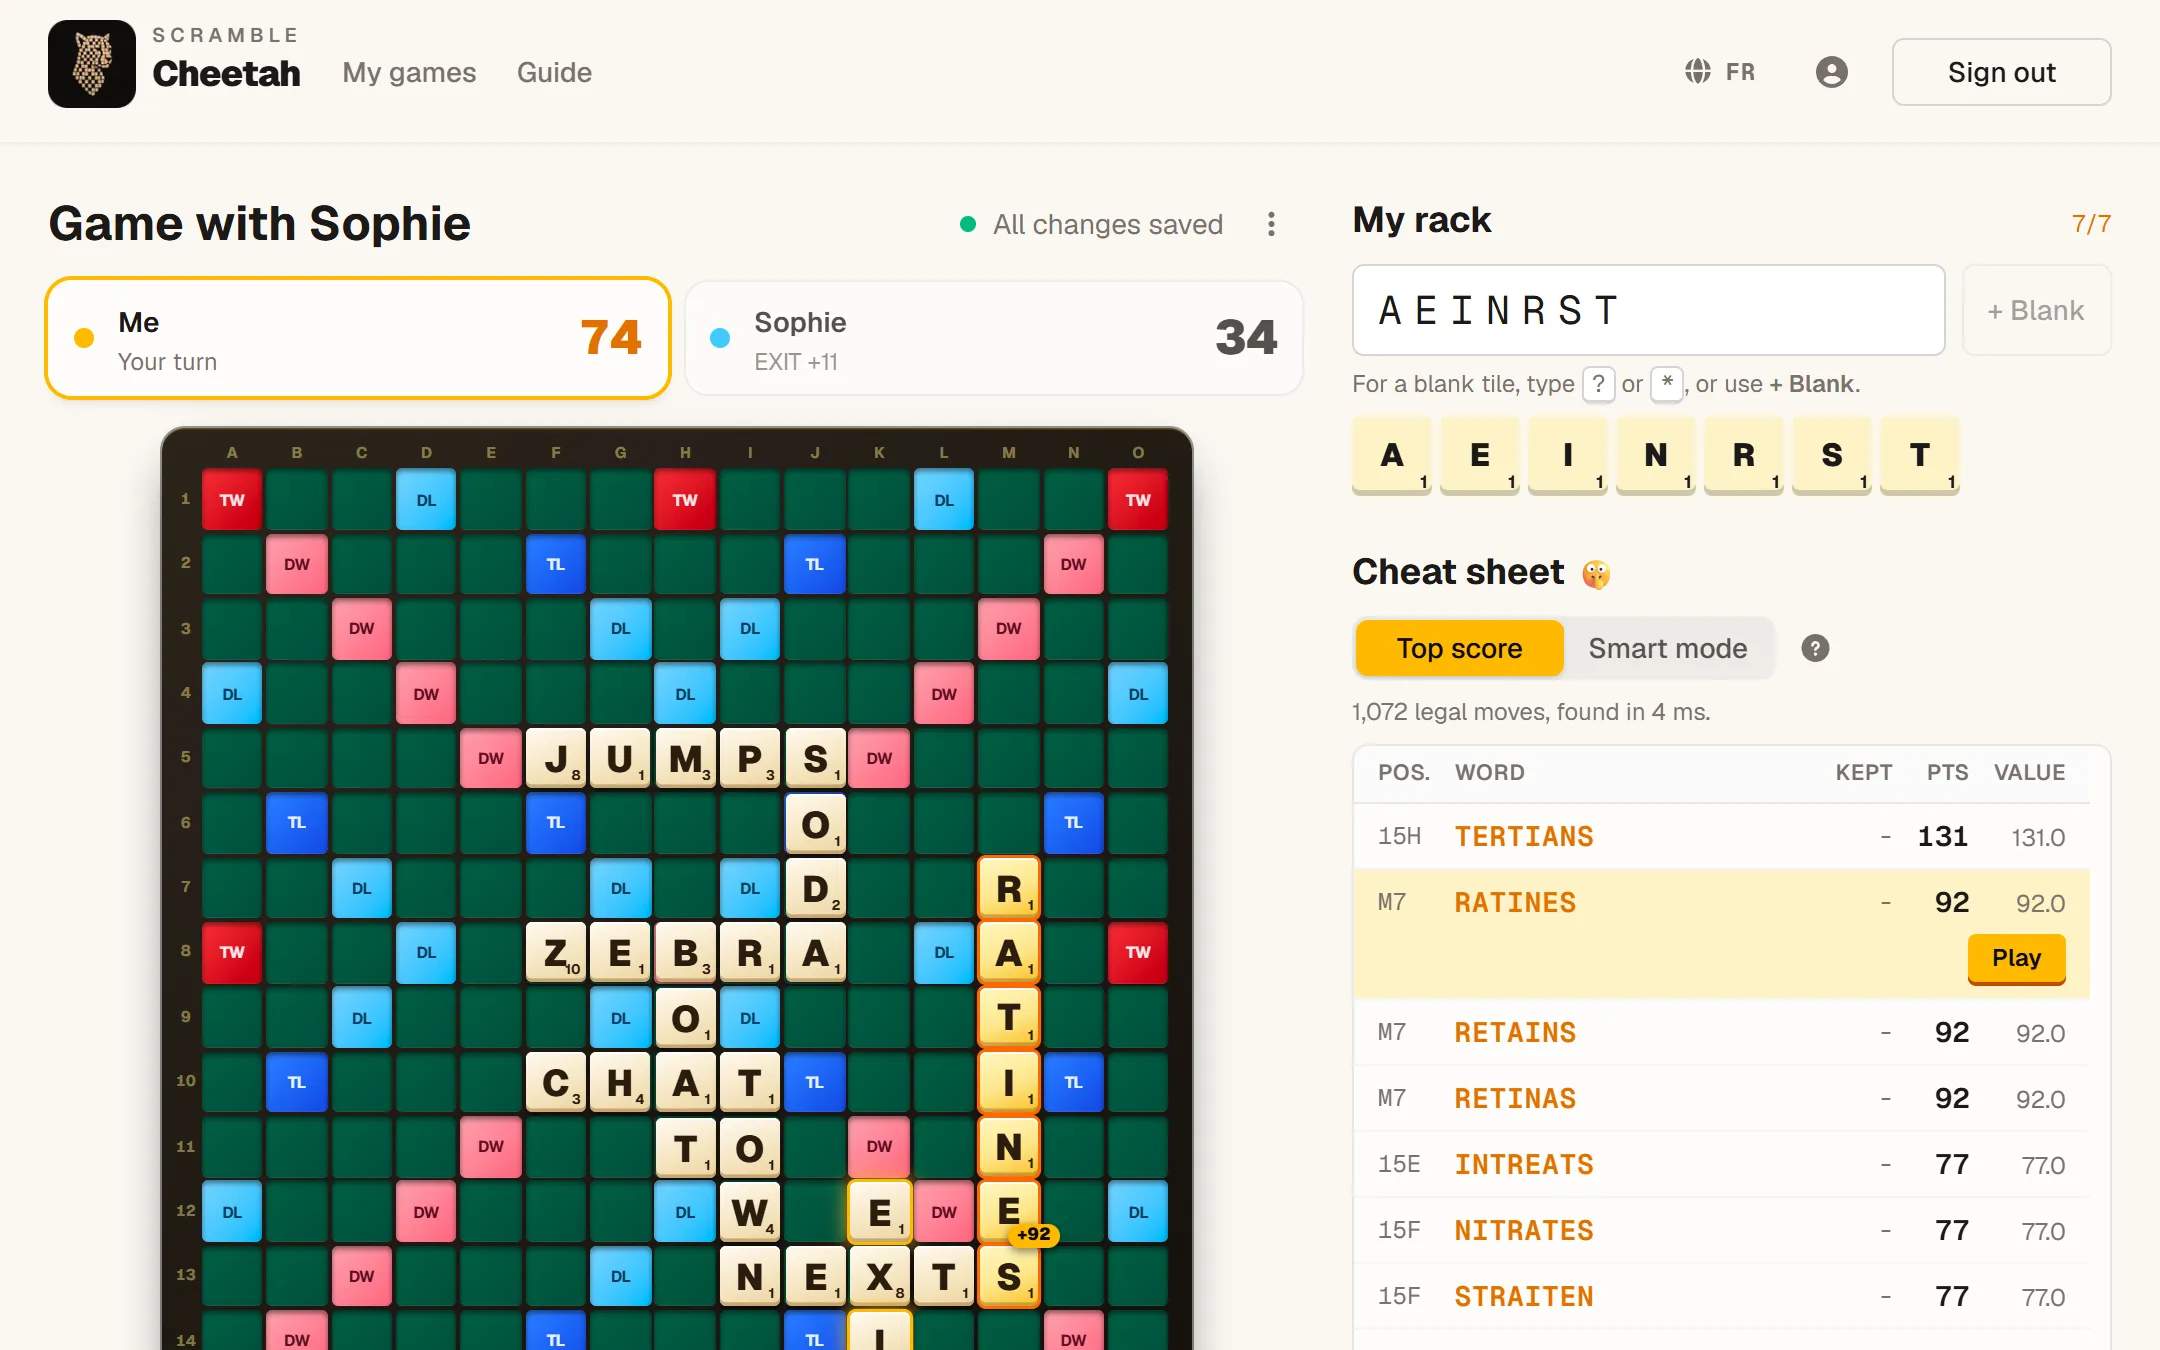
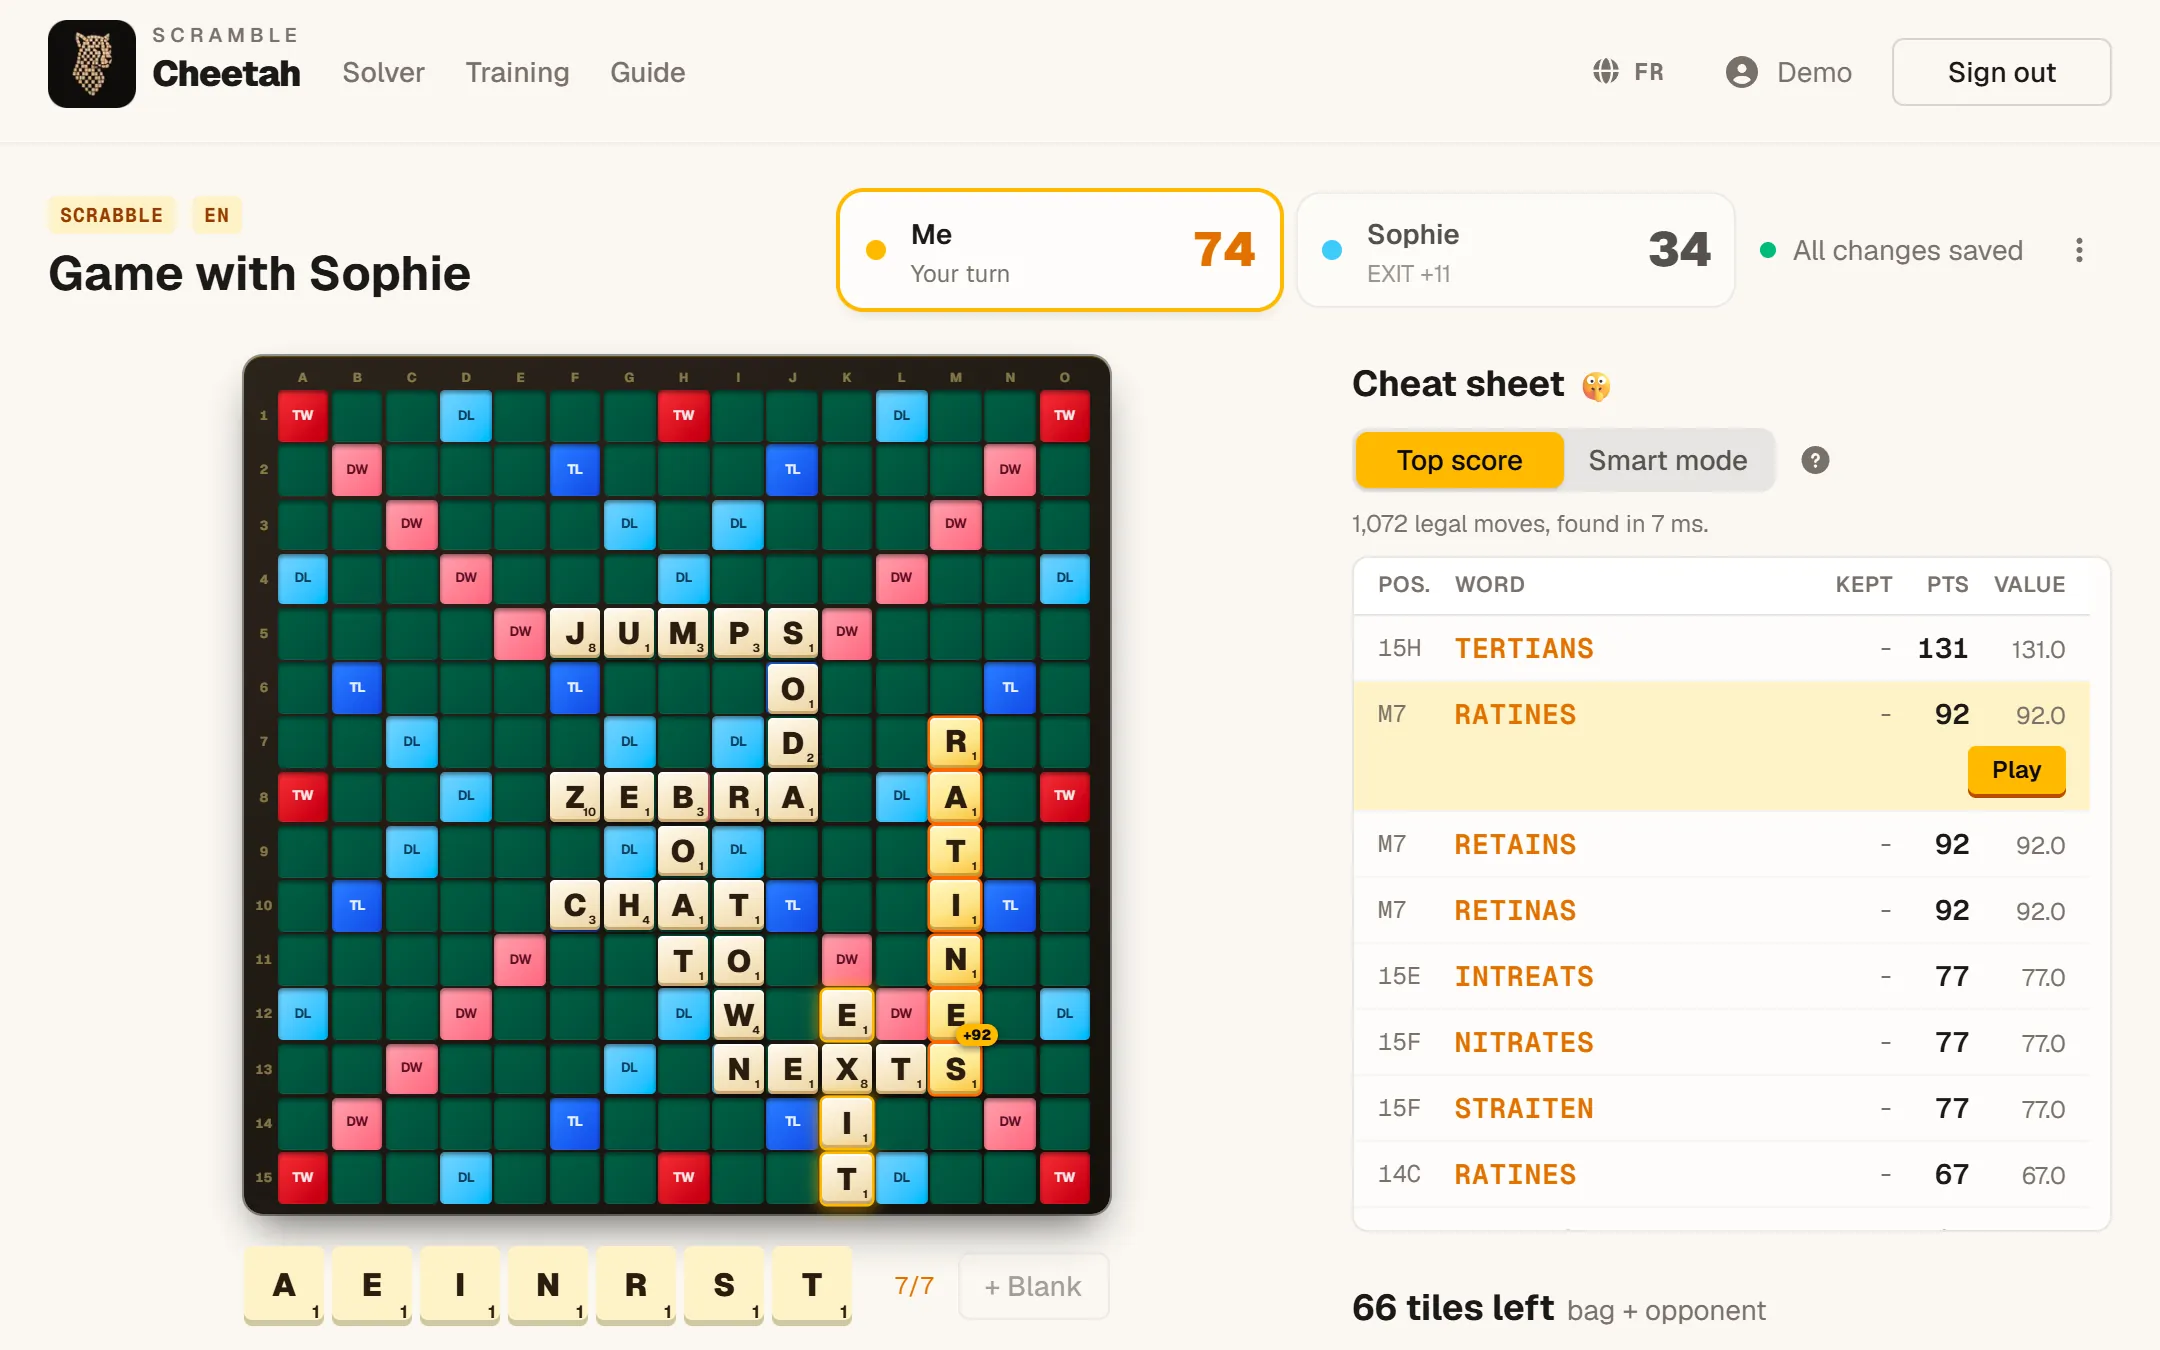
feat: add Look Aloft, refresh Scramble Cheetah and link the live apps
- Add Look Aloft (lookaloft.com) as a personal project, marked work in
  progress: English and French copy, tech stack, and eight screenshots from
  the live site (explore mode, sky survey photos, a tracked plane, Tonight).
- Recapture Scramble Cheetah's screenshots from the current app: Smart mode,
  training with a move review, Wordfeud in the dark theme and the phone tabs,
  replacing the games list and the second win-simulation shot. Mention the
  training mode and the Quackle matches in its copy.
- Give projects an optional public url, shown as a "Visit <site>" button
  under the description, for scramblecheetah.com and lookaloft.com.
- List the sky-watching app in the About section.

diff --git a/src/data/projects.ts b/src/data/projects.ts
@@ -24,6 +24,14 @@ import jelly_mobile_downloads_search from "../images/projects/jelly/mobile-downl
 import jelly_mobile_torrents from "../images/projects/jelly/mobile-torrents.webp";
 import jelly_mobile_trackers from "../images/projects/jelly/mobile-trackers.webp";
 import jelly_mobile_transfers from "../images/projects/jelly/mobile-transfers.webp";
+import lookaloft_desktop_aircraft from "../images/projects/lookaloft/desktop-aircraft.webp";
+import lookaloft_desktop_orion_nebula from "../images/projects/lookaloft/desktop-orion-nebula.webp";
+import lookaloft_desktop_sky from "../images/projects/lookaloft/desktop-sky.webp";
+import lookaloft_desktop_tonight from "../images/projects/lookaloft/desktop-tonight.webp";
+import lookaloft_mobile_intro from "../images/projects/lookaloft/mobile-intro.webp";
+import lookaloft_mobile_pleiades from "../images/projects/lookaloft/mobile-pleiades.webp";
+import lookaloft_mobile_saturn from "../images/projects/lookaloft/mobile-saturn.webp";
+import lookaloft_mobile_sky from "../images/projects/lookaloft/mobile-sky.webp";
 import molson_desktop_admin_teams from "../images/projects/molson/desktop-admin-teams.webp";
 import molson_desktop_hero from "../images/projects/molson/desktop-hero.webp";
 import molson_desktop_my_score from "../images/projects/molson/desktop-my-score.webp";
@@ -32,14 +40,14 @@ import molson_mobile_hero from "../images/projects/molson/mobile-hero.webp";
 import molson_mobile_my_player from "../images/projects/molson/mobile-my-player.webp";
 import molson_mobile_my_score from "../images/projects/molson/mobile-my-score.webp";
 import molson_mobile_my_team from "../images/projects/molson/mobile-my-team.webp";
-import scramble_desktop_best_to_win from "../images/projects/scramble/desktop-best-to-win.webp";
-import scramble_desktop_games from "../images/projects/scramble/desktop-games.webp";
+import scramble_desktop_smart_mode from "../images/projects/scramble/desktop-smart-mode.webp";
 import scramble_desktop_suggestions from "../images/projects/scramble/desktop-suggestions.webp";
+import scramble_desktop_training from "../images/projects/scramble/desktop-training.webp";
 import scramble_desktop_wordfeud from "../images/projects/scramble/desktop-wordfeud.webp";
-import scramble_mobile_best_to_win from "../images/projects/scramble/mobile-best-to-win.webp";
 import scramble_mobile_home from "../images/projects/scramble/mobile-home.webp";
 import scramble_mobile_keyboard from "../images/projects/scramble/mobile-keyboard.webp";
 import scramble_mobile_suggestions from "../images/projects/scramble/mobile-suggestions.webp";
+import scramble_mobile_training from "../images/projects/scramble/mobile-training.webp";
 
 export type ProjectShot = { key: string; src: StaticImageData };
 
@@ -47,6 +55,8 @@ export type Project = {
   /** Also the key under `projects.items` in the message files */
   slug: string;
   kind: "client" | "personal";
+  /** Public address of the live app, when there is one */
+  url?: string;
   /** Tailwind classes for the section background and accents */
   bg: string;
   accent: string;
@@ -147,6 +157,7 @@ export const PROJECTS: Project[] = [
   {
     slug: "scramble",
     kind: "personal",
+    url: "https://scramblecheetah.com",
     bg: "bg-amber-50",
     accent: "bg-amber-500",
     accentText: "text-amber-700",
@@ -171,15 +182,49 @@ export const PROJECTS: Project[] = [
     ],
     desktop: [
       { key: "desktop-suggestions", src: scramble_desktop_suggestions },
-      { key: "desktop-best-to-win", src: scramble_desktop_best_to_win },
+      { key: "desktop-smart-mode", src: scramble_desktop_smart_mode },
+      { key: "desktop-training", src: scramble_desktop_training },
       { key: "desktop-wordfeud", src: scramble_desktop_wordfeud },
-      { key: "desktop-games", src: scramble_desktop_games },
     ],
     mobile: [
       { key: "mobile-suggestions", src: scramble_mobile_suggestions },
       { key: "mobile-keyboard", src: scramble_mobile_keyboard },
-      { key: "mobile-best-to-win", src: scramble_mobile_best_to_win },
+      { key: "mobile-training", src: scramble_mobile_training },
       { key: "mobile-home", src: scramble_mobile_home },
+    ],
+  },
+  {
+    slug: "lookaloft",
+    kind: "personal",
+    url: "https://lookaloft.com",
+    bg: "bg-slate-100",
+    accent: "bg-blue-900",
+    accentText: "text-blue-900",
+    card: "bg-white",
+    stack: [
+      "TypeScript",
+      "Vite",
+      "WebGL2",
+      "Astronomy Engine",
+      "satellite.js",
+      "PWA",
+      "Node.js",
+      "Vitest",
+      "Docker",
+      "GitHub Actions",
+      "Caddy",
+    ],
+    desktop: [
+      { key: "desktop-sky", src: lookaloft_desktop_sky },
+      { key: "desktop-orion-nebula", src: lookaloft_desktop_orion_nebula },
+      { key: "desktop-aircraft", src: lookaloft_desktop_aircraft },
+      { key: "desktop-tonight", src: lookaloft_desktop_tonight },
+    ],
+    mobile: [
+      { key: "mobile-sky", src: lookaloft_mobile_sky },
+      { key: "mobile-pleiades", src: lookaloft_mobile_pleiades },
+      { key: "mobile-saturn", src: lookaloft_mobile_saturn },
+      { key: "mobile-intro", src: lookaloft_mobile_intro },
     ],
   },
   {

diff --git a/src/components/projects/ProjectShowcase.tsx b/src/components/projects/ProjectShowcase.tsx
@@ -23,6 +23,7 @@ export default function ProjectShowcase({
   meta,
   tagline,
   description,
+  link,
   features,
   architecture,
   stack,
@@ -42,6 +43,8 @@ export default function ProjectShowcase({
   meta?: string;
   tagline: string;
   description: string;
+  /** The live app, e.g. "Visit lookaloft.com" */
+  link?: { href: string; label: string };
   features: Feature[];
   architecture: string;
   stack: string[];
@@ -99,6 +102,24 @@ export default function ProjectShowcase({
           >
             {description}
           </p>
+          {link && (
+            <a
+              data-reveal
+              style={{ "--delay": "200ms" } as CSSProperties}
+              href={link.href}
+              target="_blank"
+              rel="noopener noreferrer"
+              className="group inline-flex w-full items-center justify-center gap-3 self-start rounded-xl bg-gray-900 px-6 py-3.5 font-mono text-base font-bold text-white shadow-xl shadow-gray-900/20 transition-colors hover:bg-stone-800 sm:w-auto"
+            >
+              {link.label}
+              <span
+                aria-hidden="true"
+                className="transition-transform group-hover:translate-x-0.5 group-hover:-translate-y-0.5"
+              >
+                ↗
+              </span>
+            </a>
+          )}
         </div>
 
         {/* Desktop slideshow with a floating phone (layered parallax) */}

diff --git a/src/components/projects/Projects.tsx b/src/components/projects/Projects.tsx
@@ -61,6 +61,14 @@ export default async function Projects() {
                 meta={t(`${key}.meta`)}
                 tagline={t(`${key}.tagline`)}
                 description={t(`${key}.description`)}
+                link={
+                  project.url
+                    ? {
+                        href: project.url,
+                        label: t("visit", { site: new URL(project.url).host }),
+                      }
+                    : undefined
+                }
                 features={t.raw(`${key}.features`) as Feature[]}
                 architecture={t(`${key}.architecture`)}
                 stack={project.stack}
